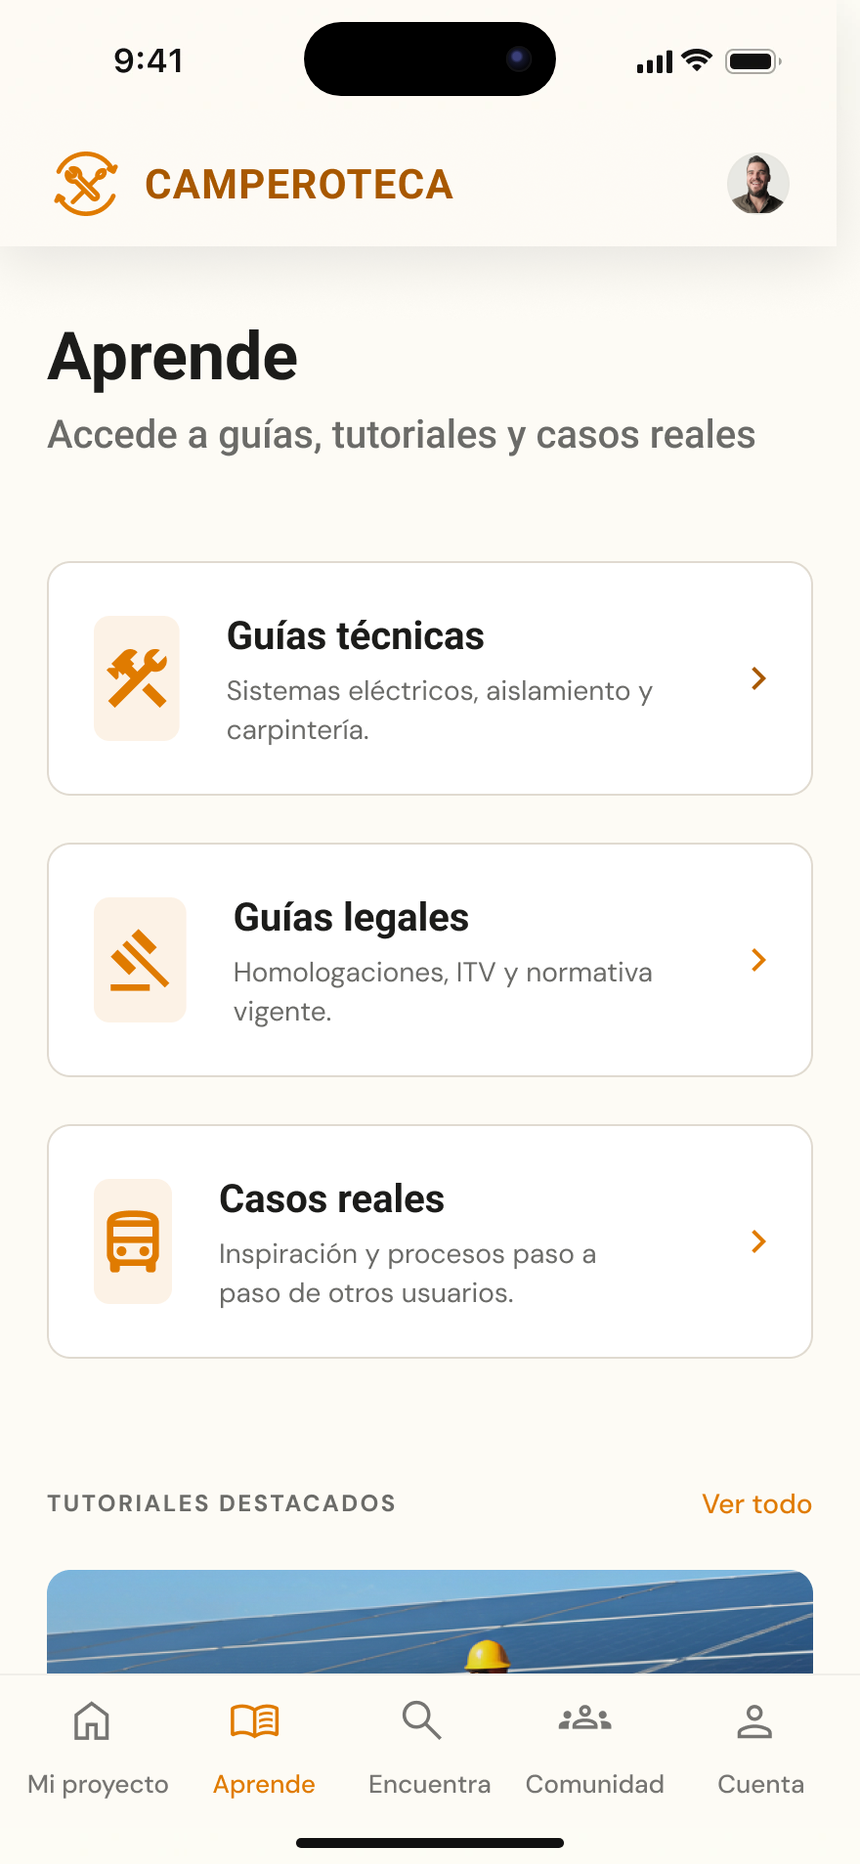
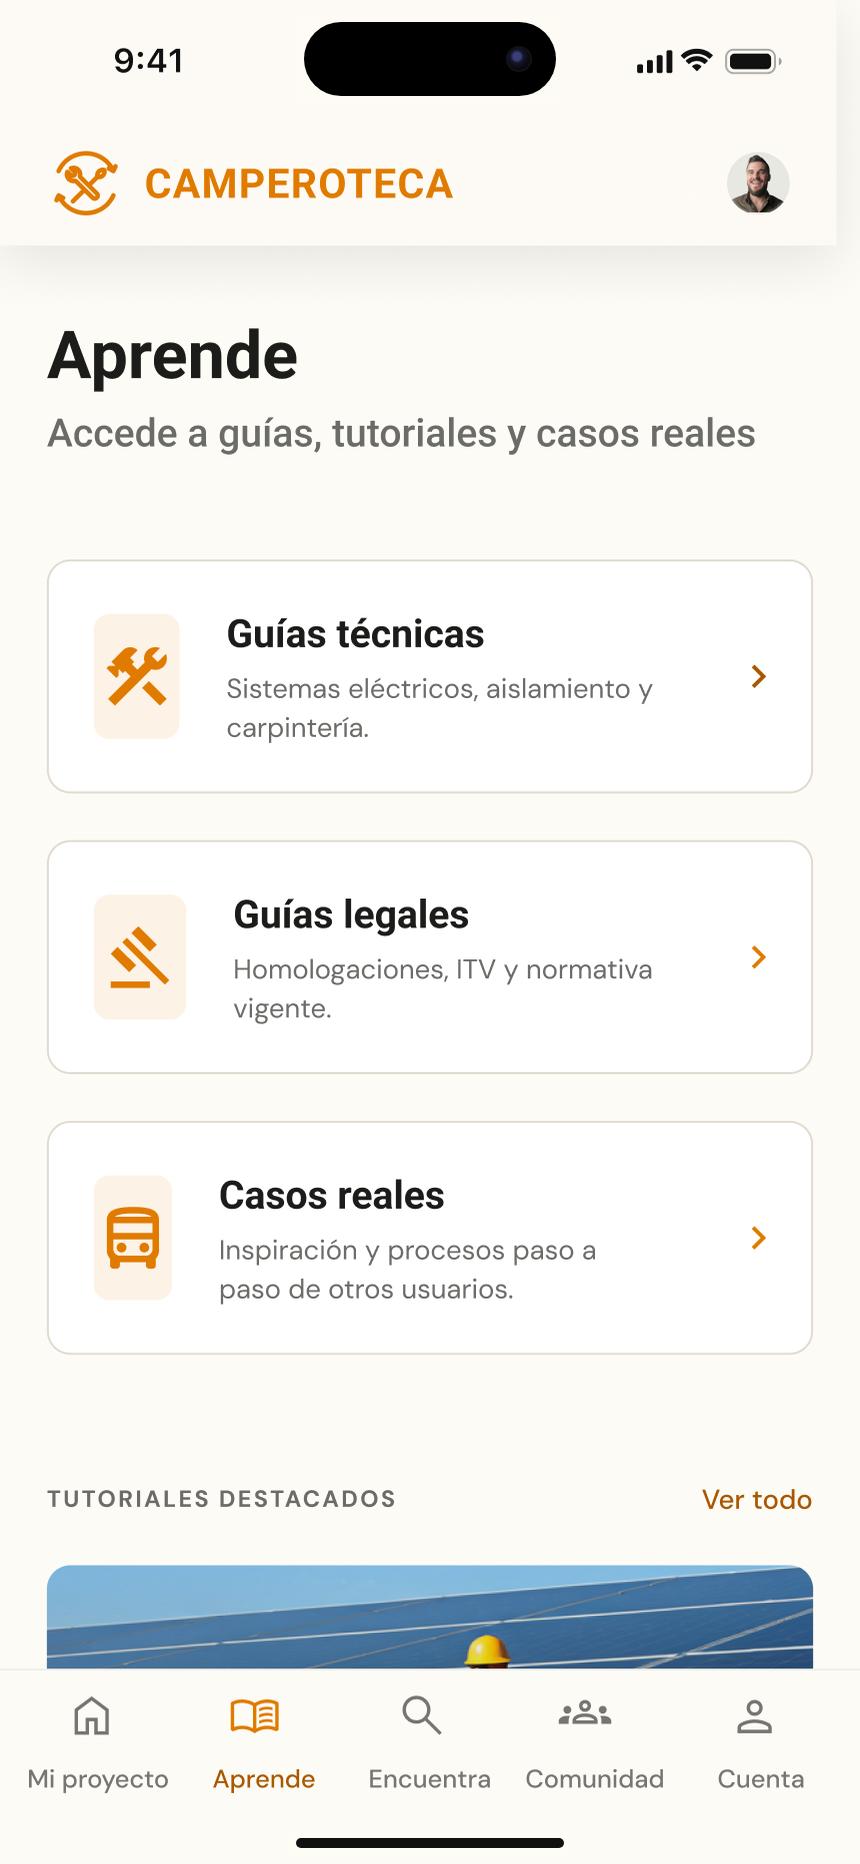
Camperoteca: contraste AA en CTAs, textos revisados y papel de Figma Make
Claude-Session: https://claude.ai/code/session_01TEdqrpnZcf8J1xZeV9Kjg7

diff --git a/app/[lang]/work/camperoteca/page.tsx b/app/[lang]/work/camperoteca/page.tsx
@@ -167,15 +167,16 @@ const copy = {
     wf_label: "Wireframes",
     wf_title: "De la estructura al diseño final",
     wf_body:
-      "El wireframing avanzó en dos fases. En baja fidelidad el foco estuvo en la estructura de navegación y el flujo principal: cómo un usuario nuevo pasa del onboarding a su primer paso real en el proyecto. En alta fidelidad, las decisiones se centraron en la jerarquía visual de 'Mi Proyecto' como hub central, y en cómo presentar el contenido de 'Aprende', 'Encuentra' y 'Comunidad' sin saturar al usuario. Cada iteración validó que la plataforma guiara sin sobrecargar.",
+      "El wireframing avanzó en dos fases. En baja fidelidad el foco estuvo en la estructura de navegación y el flujo principal: cómo un usuario nuevo pasa del onboarding a su primer paso real en el proyecto. En alta fidelidad, las decisiones se centraron en la jerarquía visual de «Mi Proyecto» como hub central, y en cómo presentar el contenido de «Aprende», «Encuentra» y «Comunidad» sin saturar al usuario. El criterio en cada iteración fue que la plataforma guiara sin sobrecargar; comprobarlo con usuarios es el siguiente paso. Usé Figma Make para generar una primera versión del prototipo a partir de mis wireframes; después la rehice y ajusté en Figma.",
 
     /* 08 */
-    ds_label: "UI Design & Design System",
+    ds_label: "Design System",
     ds_title: "«Cosecha Solar»",
     ds_body:
-      "El nombre no es accidental. El universo camper evoca naturaleza, movimiento y luz. El sistema visual de Camperoteca parte de esa referencia para construir una identidad reconocible, cálida y funcional.",
+      "El nombre sale del universo camper: naturaleza, movimiento y luz. De ahí parte una paleta cálida y terrosa, pensada para ser reconocible sin perder legibilidad.",
     ds_colors: [
       { hex: "#E07B00", name: "Primario", role: "Energía, acción, orientación" },
+      { hex: "#A85800", name: "Primario oscuro", role: "Acción accesible: botones y textos" },
       { hex: "#6B7A1A", name: "Secundario", role: "Naturaleza, confianza" },
       { hex: "#F5E642", name: "Acento", role: "Destacados, progreso" },
       { hex: "#FDFBF5", name: "Background", role: "Calidez, legibilidad" },
@@ -197,14 +198,14 @@ const copy = {
     ui_aprende_title: "Aprende",
     ui_aprende_body:
       "Organiza el conocimiento en tres categorías: guías técnicas (sistemas eléctricos, aislamiento, carpintería), guías legales (homologaciones, ITV, normativa) y casos reales de otros usuarios.",
-    ui_encuentra_title: "Encuentra Recursos",
+    ui_encuentra_title: "Encuentra",
     ui_encuentra_body: "Reúne las herramientas y los materiales que otras personas ofrecen cerca, para pedirlos prestados o intercambiarlos. Cada tarjeta indica a qué distancia está y si está disponible.",
     ui_login_title: "Login",
     ui_login_body:
-      "Acceso directo y sin fricción. El usuario entra con email y contraseña para continuar donde lo dejó.",
+      "Email y contraseña o acceso con Google: entrar en un paso y seguir donde lo dejó.",
     ui_comunidad_title: "Comunidad",
     ui_comunidad_body:
-      "Conecta con otros camperos. Pregunta, responde y encuentra usuarios cercanos con herramientas o conocimiento.",
+      "Conecta con otras personas que están camperizando. Pregunta, responde y encuentra usuarios cercanos con herramientas o conocimiento.",
     ui_onboarding_title: "Onboarding",
     ui_onboarding_body:
       "El punto de entrada al proyecto. Guía al usuario desde cero con contexto claro y un primer paso accionable — antes de que la complejidad del proceso lo frene.",
@@ -362,14 +363,15 @@ const copy = {
     wf_label: "Wireframes",
     wf_title: "From structure to final design",
     wf_body:
-      "Wireframing progressed in two phases. In low fidelity the focus was on navigation structure and the main flow: how a new user moves from onboarding to their first real step in the project. In high fidelity, decisions centred on the visual hierarchy of 'My Project' as the central hub, and on how to present 'Learn', 'Find' and 'Community' content without overwhelming the user. Each iteration validated that the platform guided without overloading.",
+      "Wireframing progressed in two phases. In low fidelity the focus was on navigation structure and the main flow: how a new user moves from onboarding to their first real step in the project. In high fidelity, decisions centred on the visual hierarchy of «My Project» as the central hub, and on how to present «Learn», «Find» and «Community» content without overwhelming the user. The criterion in every iteration was that the platform should guide without overwhelming; testing that with users is the next step. I used Figma Make to generate a first version of the prototype from my wireframes, then rebuilt and refined it in Figma.",
 
-    ds_label: "UI Design & Design System",
+    ds_label: "Design System",
     ds_title: "«Cosecha Solar»",
     ds_body:
-      "The name is no accident. The camper universe evokes nature, movement and light. Camperoteca's visual system draws from that reference to build a recognisable, warm and functional identity.",
+      "The name comes from the camper world: nature, movement and light. That is where a warm, earthy palette comes from, designed to be recognisable without losing legibility.",
     ds_colors: [
       { hex: "#E07B00", name: "Primary", role: "Energy, action, orientation" },
+      { hex: "#A85800", name: "Primary dark", role: "Accessible action: buttons and text" },
       { hex: "#6B7A1A", name: "Secondary", role: "Nature, trust" },
       { hex: "#F5E642", name: "Accent", role: "Highlights, progress" },
       { hex: "#FDFBF5", name: "Background", role: "Warmth, readability" },
@@ -390,14 +392,14 @@ const copy = {
     ui_aprende_title: "Learn",
     ui_aprende_body:
       "Organises knowledge into three categories: technical guides (electrical systems, insulation, carpentry), legal guides (homologation, MOT, regulations) and real cases from other users.",
-    ui_encuentra_title: "Find Resources",
+    ui_encuentra_title: "Find",
     ui_encuentra_body: "Brings together the tools and materials other people offer nearby, to borrow or swap. Each card shows how far away it is and whether it's available.",
     ui_login_title: "Login",
     ui_login_body:
-      "Direct, frictionless access. The user signs in with email and password to continue where they left off.",
+      "Email and password or Google sign-in: get in in one step and pick up where you left off.",
     ui_comunidad_title: "Community",
     ui_comunidad_body:
-      "Connect with other campers. Ask, answer and find nearby users with tools or knowledge to share.",
+      "Connect with other people converting their vans. Ask, answer and find nearby users with tools or knowledge to share.",
     ui_onboarding_title: "Onboarding",
     ui_onboarding_body:
       "The entry point to the project. Guides the user from scratch with clear context and a first actionable step — before the complexity of the process holds them back.",
@@ -551,14 +553,15 @@ const copy = {
     wf_label: "Wireframes",
     wf_title: "Da estrutura ao design final",
     wf_body:
-      "O wireframing avançou em duas fases. Em baixa fidelidade o foco esteve na estrutura de navegação e no fluxo principal: como um usuário novo passa do onboarding ao seu primeiro passo real no projeto. Em alta fidelidade, as decisões se concentraram na hierarquia visual de 'Meu Projeto' como hub central, e em como apresentar o conteúdo de 'Aprende', 'Encontra' e 'Comunidade' sem saturar o usuário. Cada iteração validou que a plataforma orientava sem sobrecarregar.",
+      "O wireframing avançou em duas fases. Em baixa fidelidade o foco esteve na estrutura de navegação e no fluxo principal: como um usuário novo passa do onboarding ao seu primeiro passo real no projeto. Em alta fidelidade, as decisões se concentraram na hierarquia visual de «Meu Projeto» como hub central, e em como apresentar o conteúdo de «Aprende», «Encontra» e «Comunidade» sem saturar o usuário. O critério em cada iteração foi que a plataforma orientasse sem sobrecarregar; comprovar isso com usuários é o próximo passo. Usei o Figma Make para gerar uma primeira versão do protótipo a partir dos meus wireframes; depois, refiz e ajustei no Figma.",
 
-    ds_label: "UI Design & Design System",
+    ds_label: "Design System",
     ds_title: "«Cosecha Solar»",
     ds_body:
-      "O nome não é acidental. O universo camper evoca natureza, movimento e luz. O sistema visual da Camperoteca parte dessa referência para construir uma identidade reconhecível, calorosa e funcional.",
+      "O nome vem do universo camper: natureza, movimento e luz. Daí nasce uma paleta quente e terrosa, pensada para ser reconhecível sem perder legibilidade.",
     ds_colors: [
       { hex: "#E07B00", name: "Primário", role: "Energia, ação, orientação" },
+      { hex: "#A85800", name: "Primário escuro", role: "Ação acessível: botões e textos" },
       { hex: "#6B7A1A", name: "Secundário", role: "Natureza, confiança" },
       { hex: "#F5E642", name: "Destaque", role: "Destaques, progresso" },
       { hex: "#FDFBF5", name: "Background", role: "Calor, legibilidade" },
@@ -579,11 +582,11 @@ const copy = {
     ui_aprende_title: "Aprende",
     ui_aprende_body:
       "Organiza o conhecimento em três categorias: guias técnicos (sistemas elétricos, isolamento, marcenaria), guias legais (homologação, inspeção, regulamentação) e casos reais de outros usuários.",
-    ui_encuentra_title: "Encontra Recursos",
+    ui_encuentra_title: "Encontra",
     ui_encuentra_body: "Reúne as ferramentas e os materiais que outras pessoas oferecem por perto, para pegar emprestado ou trocar. Cada card mostra a distância e se o item está disponível.",
     ui_login_title: "Login",
     ui_login_body:
-      "Acesso direto e sem fricção. O usuário entra com e-mail e senha para continuar de onde parou.",
+      "E-mail e senha ou acesso com Google: entrar em um passo e continuar de onde parou.",
     ui_comunidad_title: "Comunidade",
     ui_comunidad_body: "Conecte-se com outras pessoas que estão camperizando. Pergunte, responda e encontre pessoas próximas com ferramentas ou conhecimento.",
     ui_onboarding_title: "Onboarding",
@@ -1237,7 +1240,7 @@ export default async function CamperotecaPage({ params }: Props) {
           <div
             style={{
               display: "grid",
-              gridTemplateColumns: "repeat(4, 1fr)",
+              gridTemplateColumns: "repeat(5, 1fr)",
               gap: "1rem",
               marginBottom: "1.5rem",
             }}
